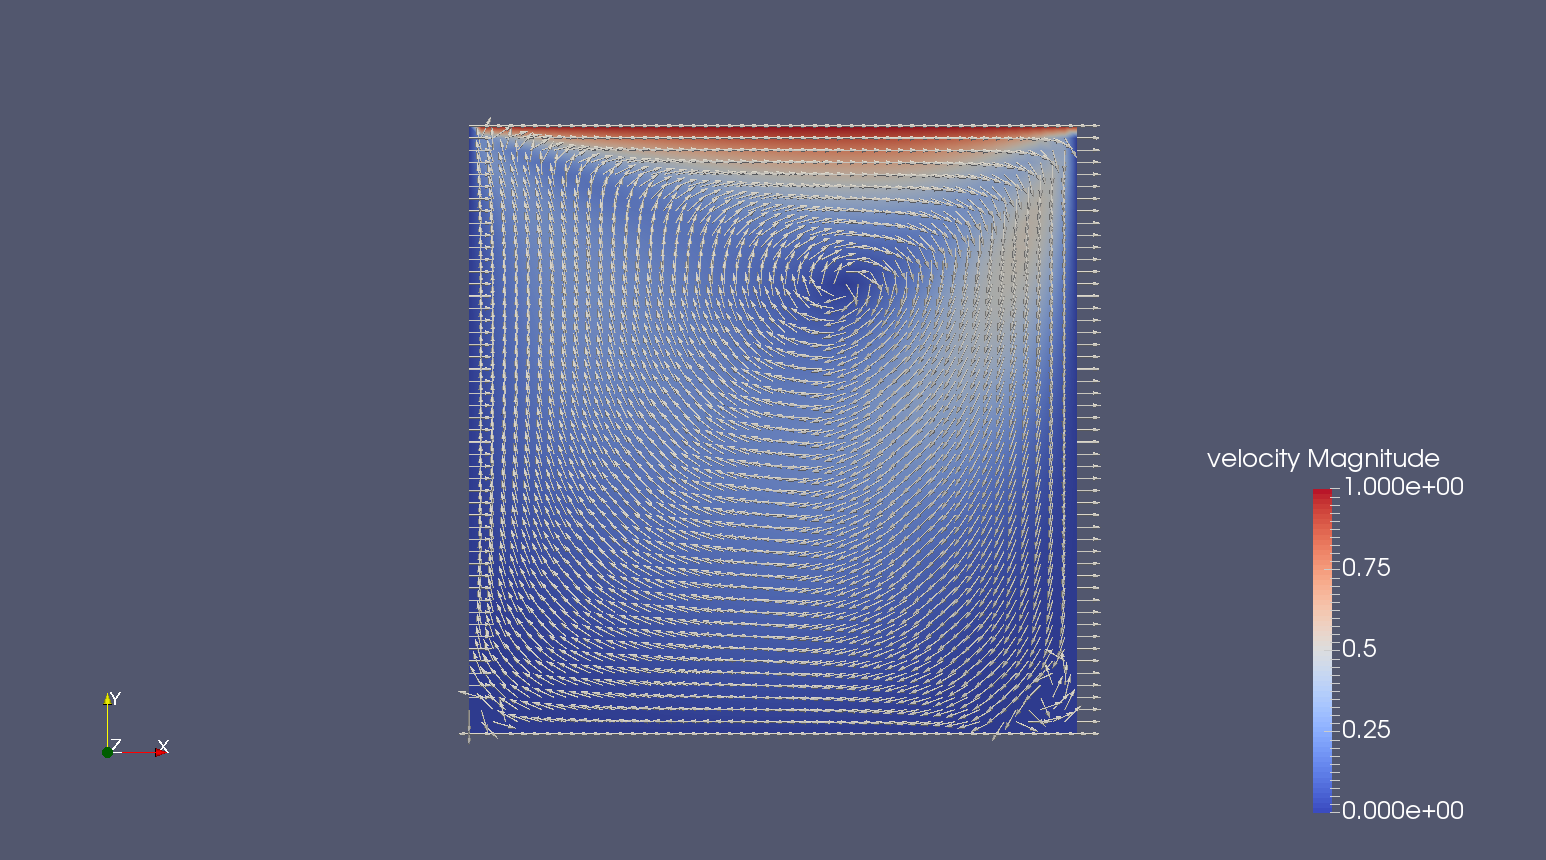
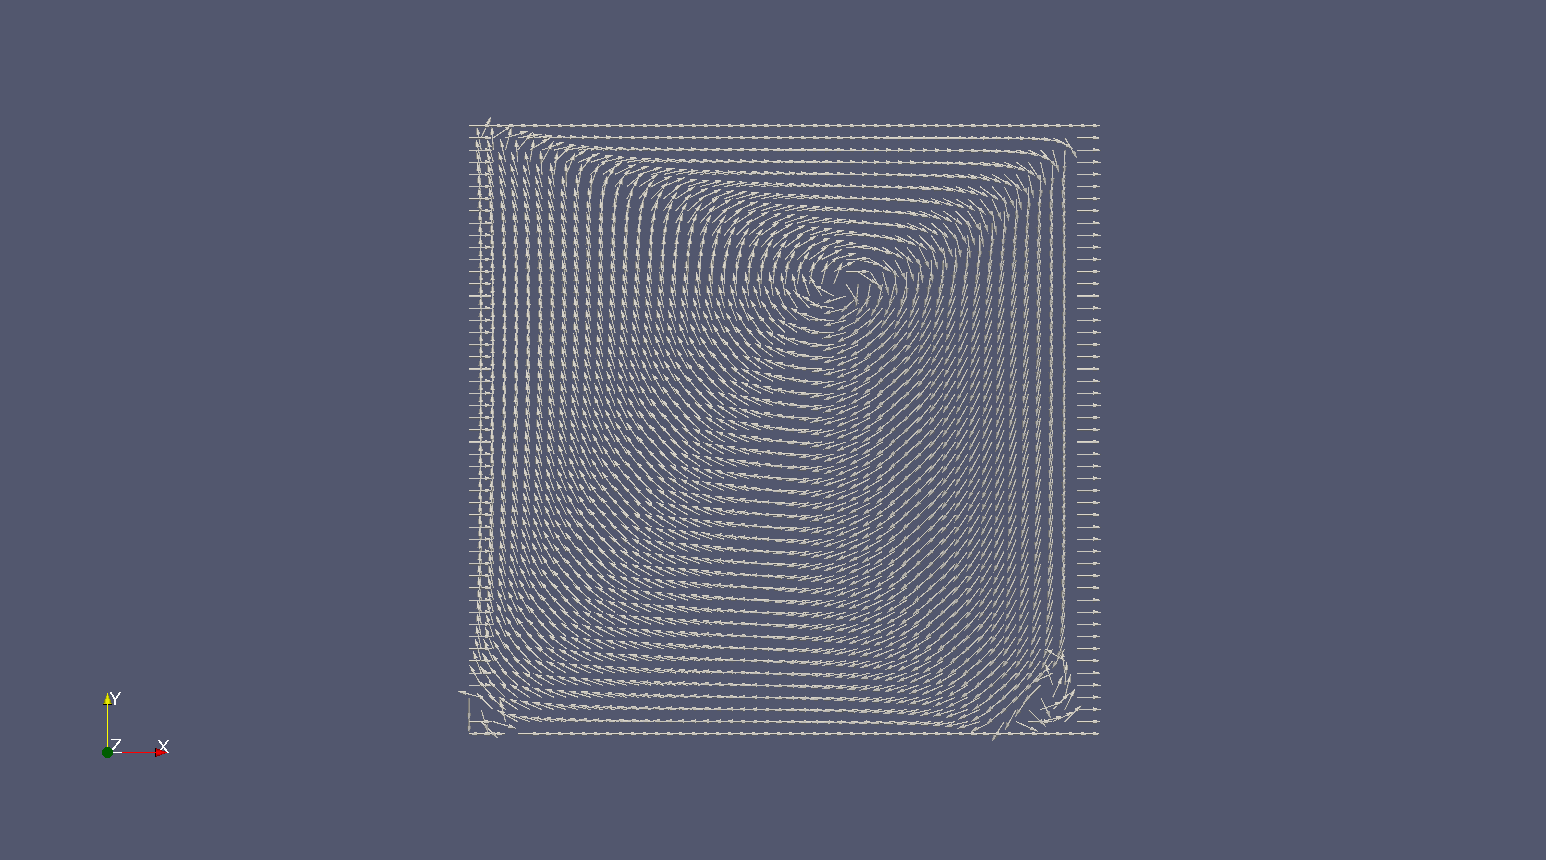
Add files via upload

Changed region(s): [[0.2794, 0.1209, 0.7141, 0.8767], [0.8383, 0.5744, 0.9314, 0.9674], [0.7762, 0.514, 0.9625, 0.5744]]

diff --git a/ex1/main.c b/ex1/main.c
@@ -41,26 +41,26 @@
  * - calculate_uv() Calculate the velocity at the next time step.
  */
 int main(int argn, char** args){
-  double valRe=1;
-  double valUI=1;
-  double valVI=1;
-  double valPI=1;
-  double valGX=1;
-  double valGY=1;
-  double valt_end=1;
-  double valxlength=1;
-  double valylength=1;
-  double valdt=1;
-  double valdx=1;
-  double valdy=1;
-  int  valimax=1;
-  int  valjmax=1;
-  double valalpha=1;
-  double valomg=1;
-  double valtau=1;
-  int  valitermax=1;
-  double valeps=1;
-	double valdt_value=1;
+  double valRe=0;
+  double valUI=0;
+  double valVI=0;
+  double valPI=0;
+  double valGX=0;
+  double valGY=0;
+  double valt_end=0;
+  double valxlength=0;
+  double valylength=0;
+  double valdt=0;
+  double valdx=0;
+  double valdy=0;
+  int  valimax=0;
+  int  valjmax=0;
+  double valalpha=0;
+  double valomg=0;
+  double valtau=0;
+  int  valitermax=0;
+  double valeps=0;
+	double valdt_value=0;
 
   double *Re=&valRe;
   double *UI=&valUI;
@@ -87,36 +87,40 @@ int main(int argn, char** args){
   //Q4 for changing omega
   //*omg=2.0;
   //Q6 for U tends to infinity
-  *imax=512;
-  *jmax=512;
-  *t_end=100;
+  //*imax=512;
+  //*jmax=512;
+  //*t_end=500;
   //Q7 for changing Re
   //*Re=10000;
   
-  double **U = matrix ( 0 , *imax+1 , 0 , *jmax+1 );
-  double **V = matrix ( 0 , *imax+1 , 0 , *jmax+1 );
+  double **U = matrix ( 0 , *imax , 0 , *jmax+1 );
+  double **V = matrix ( 0 , *imax+1 , 0 , *jmax );
   double **P = matrix ( 0 , *imax+1 , 0 , *jmax+1 );
-  double **RS = matrix ( 0 , *imax+1 , 0 , *jmax+1 );
-  double **F = matrix ( 0 , *imax+1 , 0 , *jmax+1 );
-  double **G = matrix ( 0 , *imax+1 , 0 , *jmax+1 );
+  double **RS = matrix ( 1 , *imax , 1 , *jmax );
+  double **F = matrix ( 0 , *imax , 1 , *jmax );
+  double **G = matrix ( 1 , *imax , 0 , *jmax );
 
-  init_matrix(F,0 , *imax+1 , 0 , *jmax+1, 0.0);
-  init_matrix(G,0 , *imax+1 , 0 , *jmax+1, 0.0);
-  init_matrix(RS,0 , *imax+1 , 0 , *jmax+1, 0.0);
+  init_matrix(F, 0, *imax , 1 , *jmax, 0.0);
+  init_matrix(G, 1, *imax , 0 , *jmax, 0.0);
+  init_matrix(RS, 1, *imax , 1, *jmax, 0.0);
 
   double valt=0;
   int valn=0;
   int valit=0;
   double valres= valeps+1;
+  double restTime=0;
 
   double *t=&valt;
   int *n=&valn;
   int *it=&valit;
   double *res= &valres;
+  int solbeh=0;
   init_uvp(*UI,*VI,*PI,*imax,*jmax,U,V,P);
+  boundaryvalues(*imax, *jmax, U, V);
+  //write_vtkFile("output/output", *n, *xlength, *ylength, *imax, *jmax, *dx, *dy, U, V, P);
 
   while (*t<*t_end){
-    if (*tau<=0){//(1>0){
+    if (*tau<=0){
       *dt=*dt_value;//0.005;
     }
     else{
@@ -126,29 +130,68 @@ int main(int argn, char** args){
     calculate_fg(*Re, *GX, *GY, *alpha, *dt, *dx, *dy, *imax, *jmax, U, V, F, G);
     calculate_rs(*dt, *dx, *dy, *imax, *jmax, F, G, RS);
     *it=0;
-    *res=valeps+1;
+    *res=*eps+1;
     while ((*it<*itermax) && (*res>*eps)){
       sor(*omg, *dx, *dy, *imax, *jmax, P, RS, res);
       *it=*it+1;
+      solbeh=solbeh+1;
+    }
+    if (*it==*itermax){
+      printf("WARNING! The SOR have not converged in this iteration!\n");
     }
     calculate_uv(*dt, *dx, *dy, *imax, *jmax, U, V, F, G, P);
-    *t+=*dt; 
+    //Q5 help check if stable
+    /*for (int i=1;i<=*imax;i++){
+      for (int j=1;j<=*jmax;j++){
+        if ((isnan(U[i][j]))||(isnan(V[i][j]))||(isnan(F[i][j]))||(isnan(G[i][j]))||(isnan(P[i][j]))||(isnan(RS[i][j]))){
+          printf("Unstable, exist NaN in U,V,P,F,G or RS \n");
+          free_matrix (U, 0 , *imax , 0 , *jmax+1 );
+          free_matrix (V, 0 , *imax+1 , 0 , *jmax );
+          free_matrix (P, 0 , *imax+1 , 0 , *jmax+1 );
+          free_matrix (RS, 1 , *imax , 1 , *jmax );
+          free_matrix (F, 0 , *imax , 1 , *jmax );
+          free_matrix (G, 1 , *imax , 0 , *jmax );
+          return 0;
+        }
+      }
+    }*/
+    *t+=*dt;
+    restTime+=*dt; 
     *n=*n+1;
-    if (1>0){
-      //write_vtkFile("output170/output", *n, *xlength, *ylength, *imax, *jmax, *dx, *dy, U, V, P);
-      printf("n=");
-      printf("%i",*n);
-      printf(", t=");
-      printf("%f",*t);
-      printf(", U[imax/2][7*jmax/8]=");
-      printf("%f \n",U[*imax/2][*jmax/8*7]);
+    if (restTime>=*dt_value){
+      //write_vtkFile("output/output", *n, *xlength, *ylength, *imax, *jmax, *dx, *dy, U, V, P);
+      restTime=restTime-*dt_value;
+    }
+    printf("n=");
+    printf("%i",*n);
+    printf(", dt=");
+    printf("%f",*dt);
+    printf(", t=");
+    printf("%f ,\n   ",*t);
+    printf("#SOR=");
+    printf("%i",*it);
+    printf(", Res=");
+    printf("%f",*res);
+    printf(", U[imax/2][7*jmax/8]=");
+    printf("%f \n",U[*imax/2][(int)(((double)*jmax)/8.0*7.0)]);
+    //stop if is NaN
+    if (isnan(U[*imax/2][(int)(((double)*jmax)/8.0*7.0)])){
+      free_matrix (U, 0 , *imax , 0 , *jmax+1 );
+      free_matrix (V, 0 , *imax+1 , 0 , *jmax );
+      free_matrix (P, 0 , *imax+1 , 0 , *jmax+1 );
+      free_matrix (RS, 1 , *imax , 1 , *jmax );
+      free_matrix (F, 0 , *imax , 1 , *jmax );
+      free_matrix (G, 1 , *imax , 0 , *jmax ); 
+      return 0;
     }
   }
-  free_matrix (U, 0 , *imax+1 , 0 , *jmax+1 );
-  free_matrix (V, 0 , *imax+1 , 0 , *jmax+1 );
+  printf("Total #SOR=");
+  printf("%i \n", solbeh);
+  free_matrix (U, 0 , *imax , 0 , *jmax+1 );
+  free_matrix (V, 0 , *imax+1 , 0 , *jmax );
   free_matrix (P, 0 , *imax+1 , 0 , *jmax+1 );
-  free_matrix (RS, 0 , *imax+1 , 0 , *jmax+1 );
-  free_matrix (F, 0 , *imax+1 , 0 , *jmax+1 );
-  free_matrix (G, 0 , *imax+1 , 0 , *jmax+1 );
+  free_matrix (RS, 1 , *imax , 1 , *jmax );
+  free_matrix (F, 0 , *imax , 1 , *jmax );
+  free_matrix (G, 1 , *imax , 0 , *jmax );
   return 0;
 }

diff --git a/ex1/uvp.c b/ex1/uvp.c
@@ -45,10 +45,10 @@ void calculate_fg(
             F[i][j]=U[i][j]+dt*(
                 ((U[i+1][j]-2.0*U[i][j]+U[i-1][j])/(dx*dx)+(U[i][j+1]-2.0*U[i][j]+U[i][j-1])/(dy*dy))/Re
                 -(((U[i][j]+U[i+1][j])/2.0)*((U[i][j]+U[i+1][j])/2.0)-((U[i-1][j]+U[i][j])/2.0)*((U[i-1][j]+U[i][j])/2.0)
-                    +alpha*((abs(U[i][j]+U[i+1][j])/2.0)*((U[i][j]-U[i+1][j])/2.0)-(abs(U[i-1][j]+U[i][j])/2.0)*((U[i-1][j]-U[i][j])/2.0))
+                    +alpha*((fabs(U[i][j]+U[i+1][j])/2.0)*((U[i][j]-U[i+1][j])/2.0)-(fabs(U[i-1][j]+U[i][j])/2.0)*((U[i-1][j]-U[i][j])/2.0))
                 )/dx
                 -(((V[i][j]+V[i+1][j])/2.0)*((U[i][j]+U[i][j+1])/2.0)-((V[i][j-1]+V[i+1][j-1])/2.0)*((U[i][j-1]+U[i][j])/2.0)
-                    +alpha*((abs(V[i][j]+V[i+1][j])/2.0)*((U[i][j]-U[i][j+1])/2.0)-(abs(V[i][j-1]+V[i+1][j-1])/2.0)*((U[i][j-1]-U[i][j])/2.0))
+                    +alpha*((fabs(V[i][j]+V[i+1][j])/2.0)*((U[i][j]-U[i][j+1])/2.0)-(fabs(V[i][j-1]+V[i+1][j-1])/2.0)*((U[i][j-1]-U[i][j])/2.0))
                 )/dy
                 +GX
             );
@@ -59,10 +59,10 @@ void calculate_fg(
             G[i][j]=V[i][j]+dt*(
                 ((V[i+1][j]-2.0*V[i][j]+V[i-1][j])/(dx*dx)+(V[i][j+1]-2.0*V[i][j]+V[i][j-1])/(dy*dy))/Re
                 -(((U[i][j]+U[i][j+1])/2.0)*((V[i][j]+V[i+1][j])/2.0)-((U[i-1][j]+U[i-1][j+1])/2.0)*((V[i-1][j]+V[i][j])/2.0)
-                    +alpha*((abs(U[i][j]+U[i][j+1])/2.0)*((V[i][j]-V[i+1][j])/2.0)-(abs(U[i-1][j]+U[i-1][j+1])/2.0)*((V[i-1][j]-V[i][j])/2.0))
+                    +alpha*((fabs(U[i][j]+U[i][j+1])/2.0)*((V[i][j]-V[i+1][j])/2.0)-(fabs(U[i-1][j]+U[i-1][j+1])/2.0)*((V[i-1][j]-V[i][j])/2.0))
                 )/dx
                 -(((V[i][j]+V[i][j+1])/2.0)*((V[i][j]+V[i][j+1])/2.0)-((V[i][j-1]+V[i][j])/2.0)*((V[i][j-1]+V[i][j])/2.0)
-                    +alpha*((abs(V[i][j]+V[i][j+1])/2.0)*((V[i][j]-V[i][j+1])/2.0)-(abs(V[i][j-1]+V[i][j])/2.0)*((V[i][j-1]-V[i][j])/2.0))
+                    +alpha*((fabs(V[i][j]+V[i][j+1])/2.0)*((V[i][j]-V[i][j+1])/2.0)-(fabs(V[i][j-1]+V[i][j])/2.0)*((V[i][j-1]-V[i][j])/2.0))
                 )/dy
                 +GY
             );
@@ -128,15 +128,15 @@ void calculate_dt(
     double vmax=0;
     for(int i = 1; i <= imax; i++) {
         for(int j = 1; j<=jmax; j++) {
-            if (abs(U[i][j])>umax){
-                umax=abs(U[i][j]);
+            if (fabs(U[i][j])>umax){
+                umax=fabs(U[i][j]);
             }
-            if (abs(V[i][j])>vmax){
-                vmax=abs(V[i][j]);
+            if (fabs(V[i][j])>vmax){
+                vmax=fabs(V[i][j]);
             }
         }
     }
-    *dt=tau*(fmin(Re/(2*(1/(dx*dx)+1/(dy*dy))),fmin(dx/umax,dy/vmax)));
+    *dt=tau*(fmin(Re/(2.0*(1.0/(dx*dx)+1.0/(dy*dy))),fmin(dx/umax,dy/vmax)));
 }
 
 

diff --git a/ex1/init.c b/ex1/init.c
@@ -54,6 +54,7 @@ int read_parameters( const char *szFileName,       /* name of the file */
    return 1;
 }
 
+//initialize the U, V, P matrices
 void init_uvp(
   double UI,
   double VI,
@@ -64,8 +65,8 @@ void init_uvp(
   double **V,
   double **P)
 {
-    init_matrix(U,0,imax+1,0,jmax+1, UI);
-    init_matrix(V,0,imax+1,0,jmax+1, VI);
+    init_matrix(U,0,imax,0,jmax+1, UI);
+    init_matrix(V,0,imax+1,0,jmax, VI);
     init_matrix(P,0,imax+1,0,jmax+1, PI);
 }
 

diff --git a/ex1/boundary_val.c b/ex1/boundary_val.c
@@ -2,6 +2,7 @@
 #include "helper.h"
 #include <math.h>
 
+//set the boundary conditions
 void boundaryvalues(
   int imax,
   int jmax,
